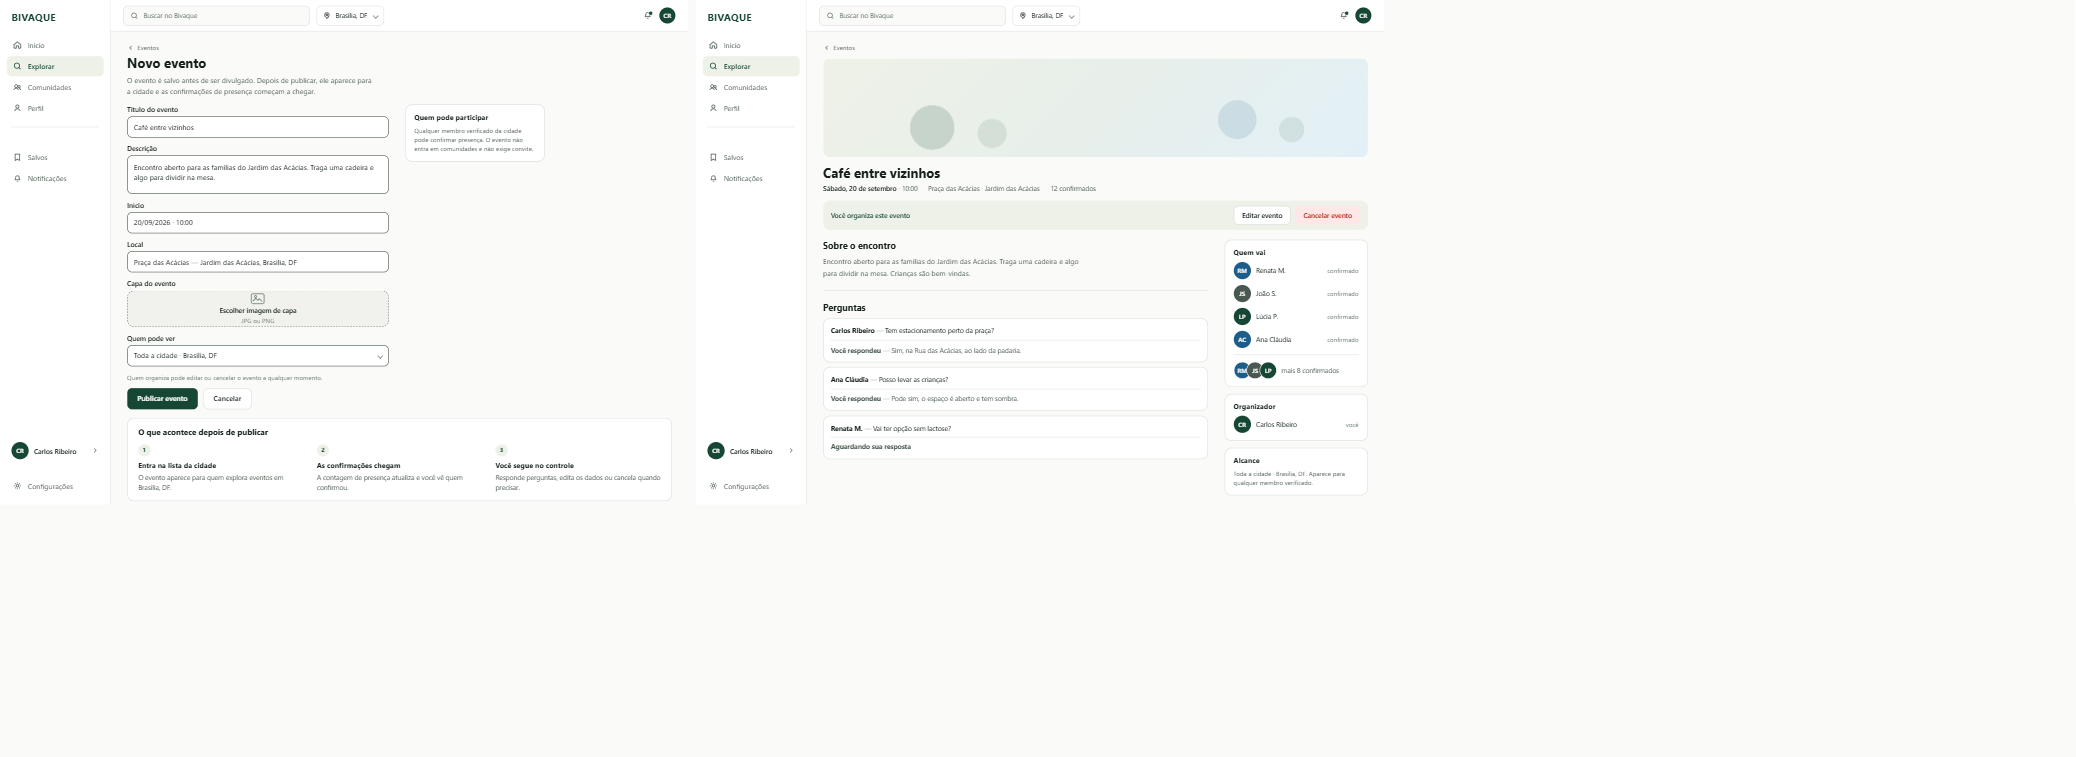
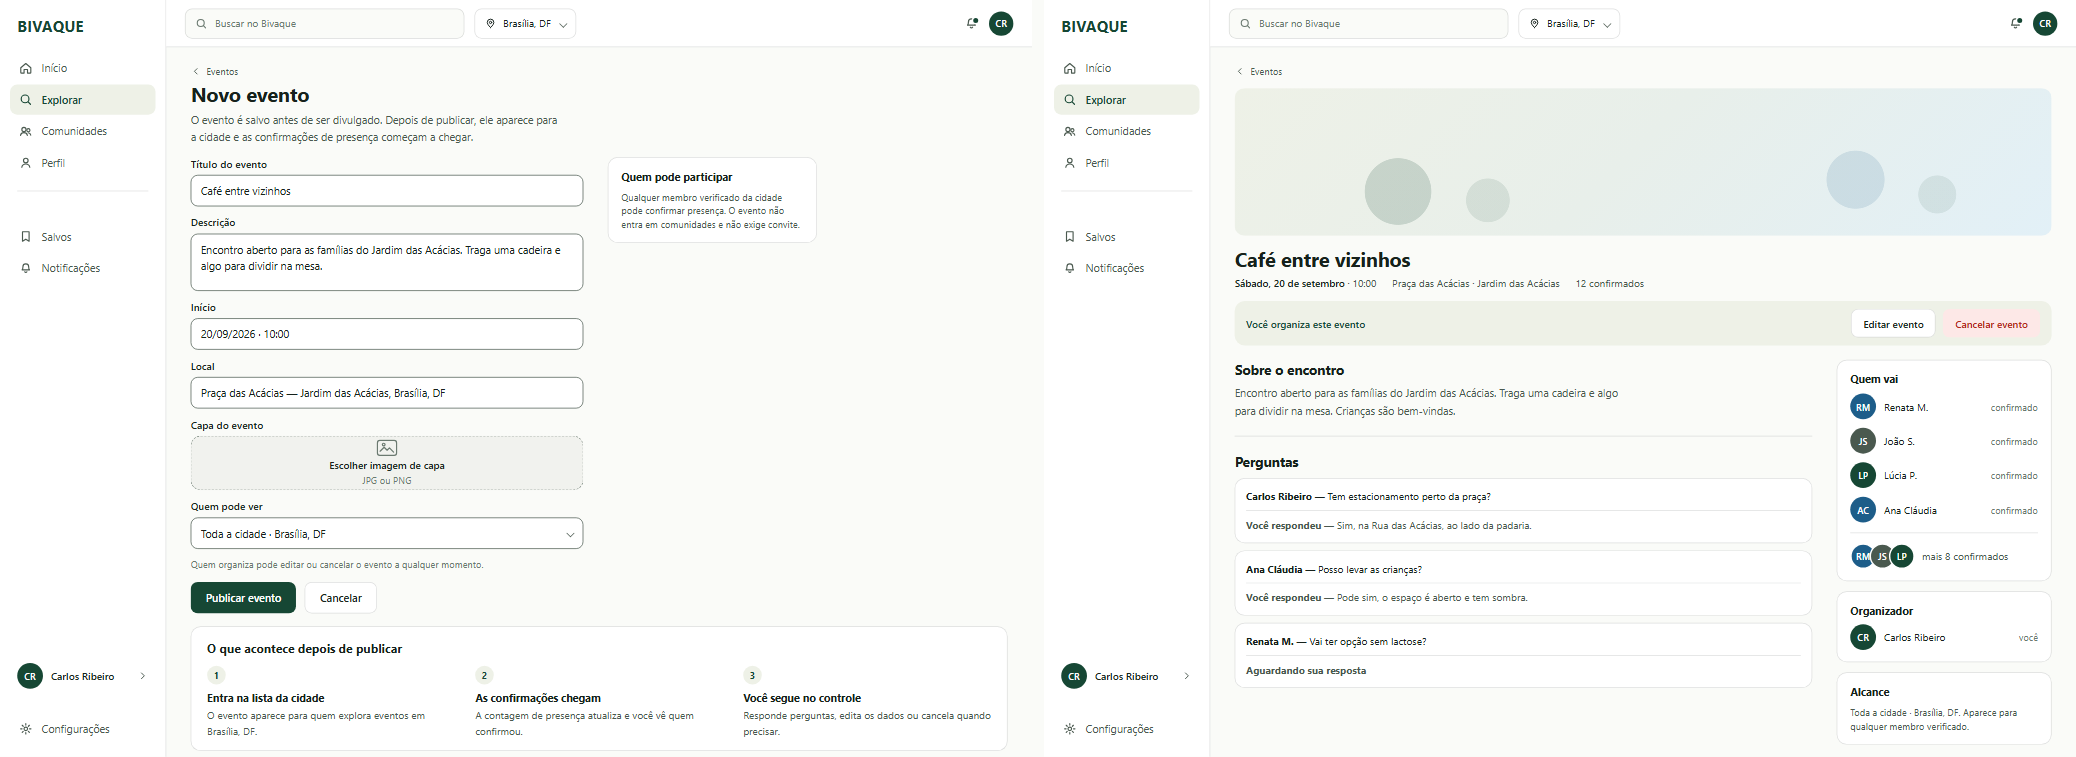
fix(visual): prancha 70 renderizada sem escala e guarda contra o defeito
O PNG entregue tinha o conteudo comprimido em 1384x505 de um canvas de 2076x757: o Chrome reduzira a pagina a 2/3 (devicePixelRatio 0.667) para caber na janela, e o recorte de 49,7% da galeria passava a mostrar dois paineis no lugar de um. A causa e o metodo de captura, nao o desenho. Agora a renderizacao usa Playwright headless, que nao sofre limite de janela, e o novo scripts/visual/render-board.mjs se recusa a escrever quando o devicePixelRatio nao e 1 ou quando o quadro nao bate com o tamanho pedido. Conferido: as unicas colunas 100% fundo do PNG sao 1032..1043, a calha de 12px. Board: render entra no package.json.

diff --git a/docs/design/visual-guide-2026-09-06/README.md b/docs/design/visual-guide-2026-09-06/README.md
@@ -18,6 +18,12 @@ Os PNGs foram gerados e editados pelo image_gen integrado, sem retoque por scrip
 
 São artefatos **derivados — não editar à mão**. Ao substituir uma prancha, regenere com `npx pnpm@11.18.0 flows:gallery`; se a geometria do PNG mudou, rode antes `npx pnpm@11.18.0 flows:frames`. `npx pnpm@11.18.0 flows:check` falha se algum artefato estiver fora de sincronia.
 
+## Pranchas com fonte HTML
+
+A prancha `70-web-evento-organizar` nasce de uma fonte versionada em [`src/70-web-evento-organizar.html`](./src/70-web-evento-organizar.html), renderizada por `npx pnpm@11.18.0 board:render 70-web-evento-organizar`. Diferente das demais, o PNG é render determinístico sobre `packages/tokens`, não geração por `image_gen`.
+
+O renderizador **se recusa a escrever** quando o navegador aplica escala (`devicePixelRatio` diferente de 1) ou quando o quadro não bate com o tamanho pedido. Sem essa guarda, uma janela menor que a prancha faz o Chrome reduzir a página: o PNG sai com o conteúdo espremido no canto, o canvas sobra vazio e o recorte da galeria passa a mostrar dois painéis no lugar de um. `--check` compara sem escrever.
+
 ## Correções solicitadas
 
 As sete propagações pendentes foram geradas em 08/09: 34, 38, 40, 42, 45, 48 e 49. O fluxo de perguntas ao organizador está nas 66/67; envio e recuperação de identidade nas 68/69, com acompanhamento web na 38. As seis decisões continuam em [DECISOES-2026-09-07.md](./DECISOES-2026-09-07.md).
